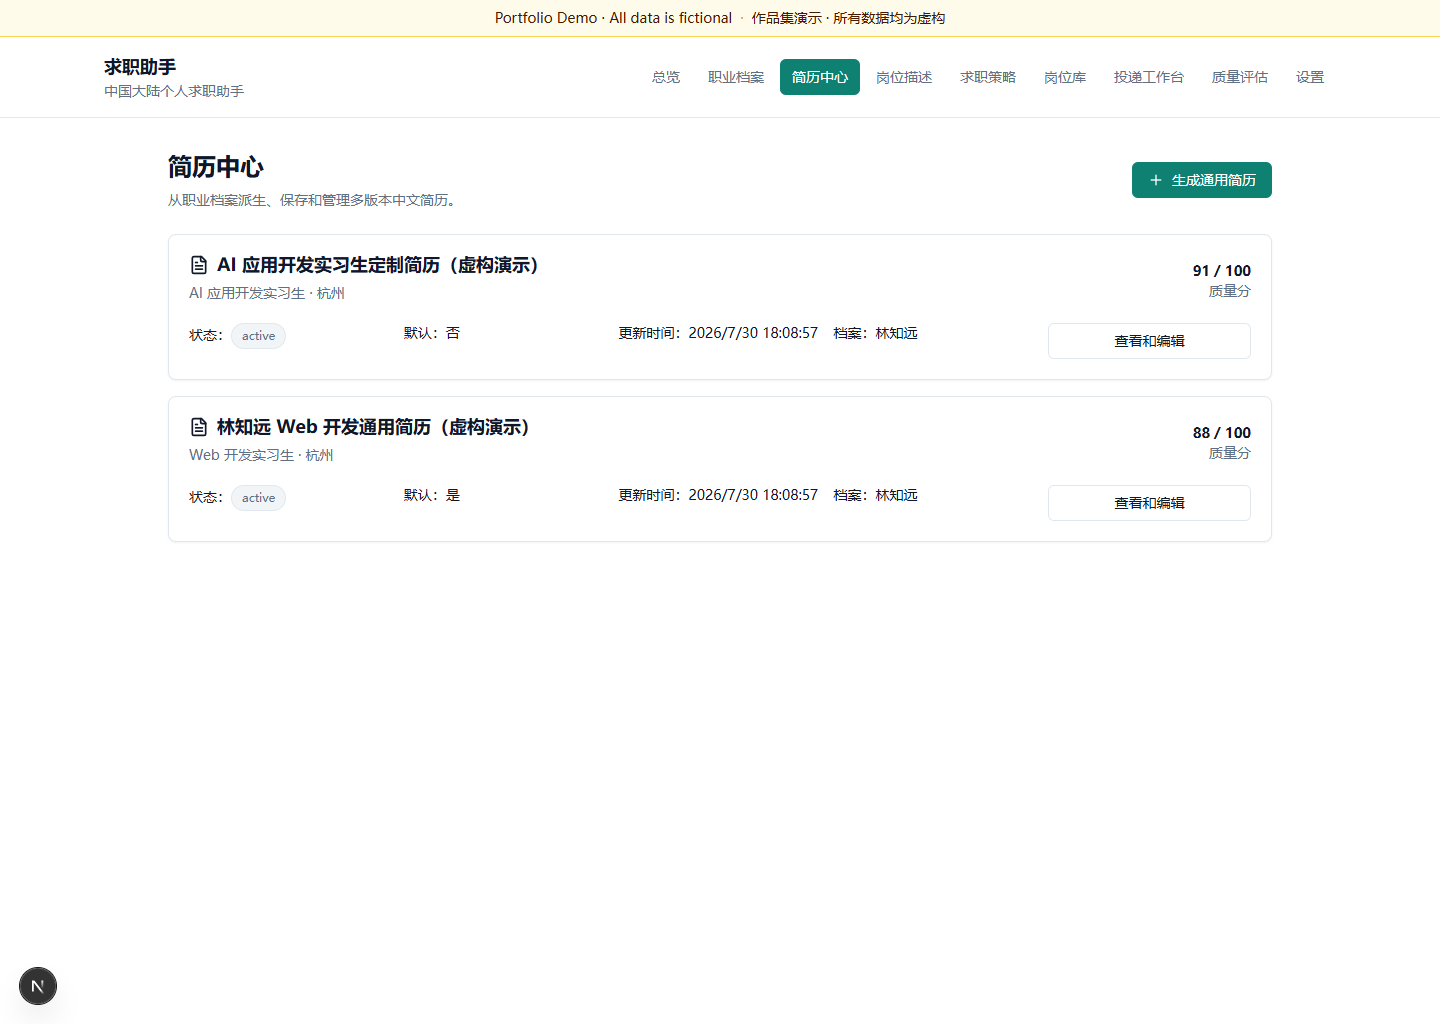
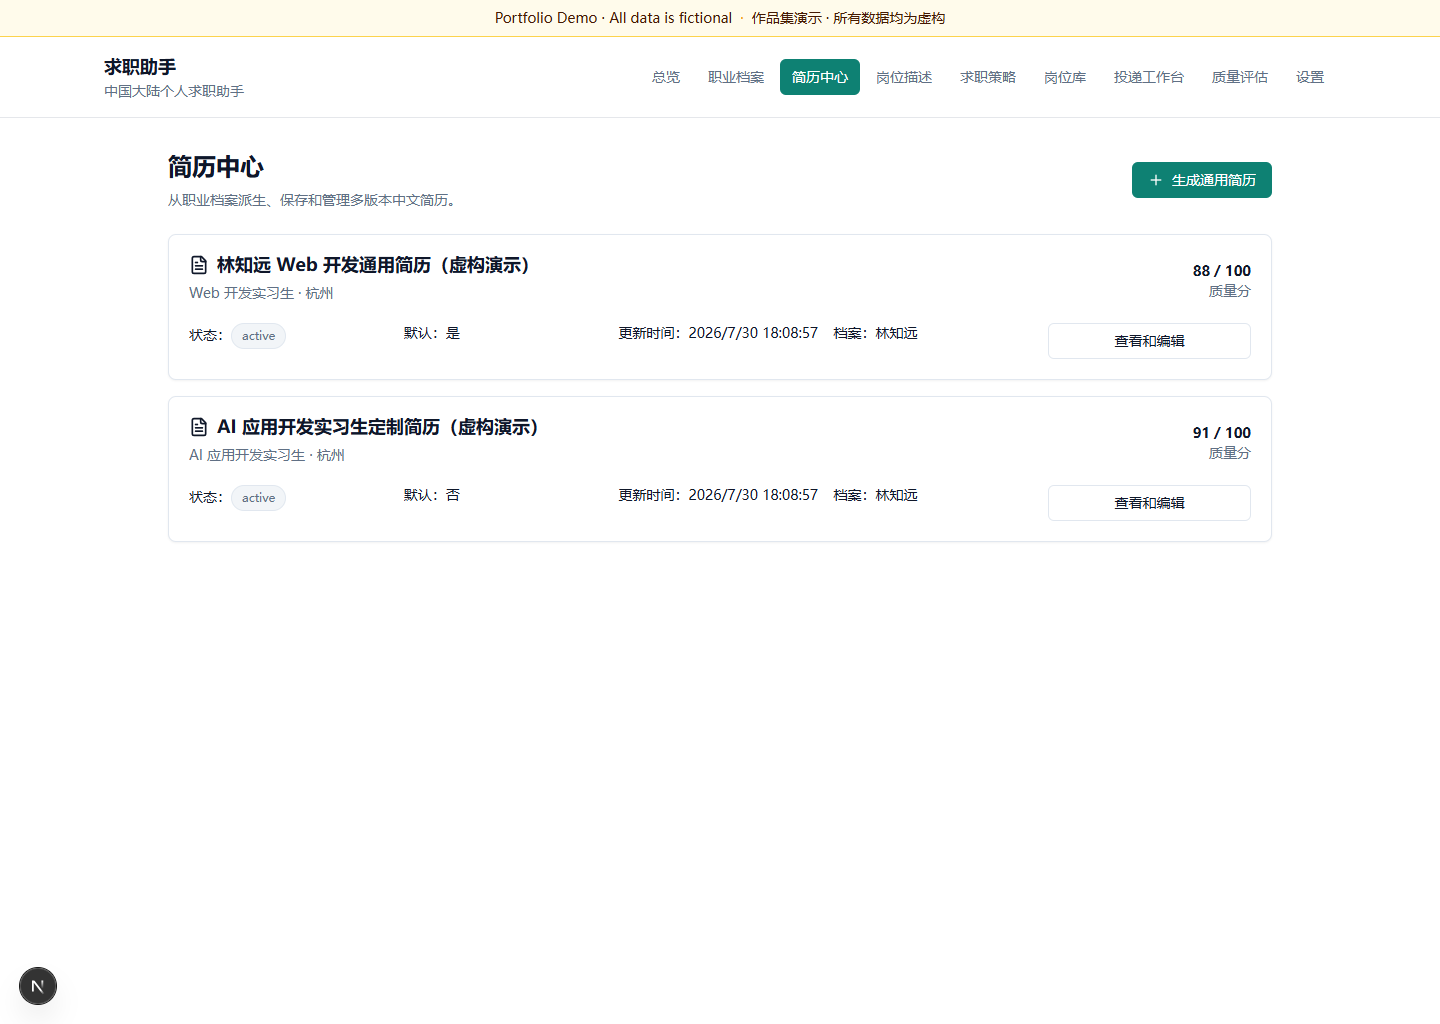
fix: make portfolio screenshots reproducible

Changed region(s): [[0.125, 0.4062, 0.375, 0.4688], [0.125, 0.25, 0.375, 0.3125]]

diff --git a/scripts/portfolio-seed.ts b/scripts/portfolio-seed.ts
@@ -1,6 +1,7 @@
 import { PrismaClient } from "@prisma/client";
 import {
   PORTFOLIO_DEMO_MARKER,
+  PORTFOLIO_DEMO_TIMESTAMP,
   buildPortfolioCompiledResume,
   portfolioBaseResumeMarkdown,
   portfolioJDAnalysis,
@@ -9,6 +10,7 @@ import {
 import { assertPortfolioDatabaseUrl } from "./portfolio-env";
 
 const prisma = new PrismaClient();
+const portfolioDemoTimestamp = new Date(PORTFOLIO_DEMO_TIMESTAMP);
 const ids = {
   user: "portfolio-demo-user-v1",
   profile: "portfolio-demo-profile-v1",
@@ -145,6 +147,8 @@ async function seed() {
       qualityWarnings: [],
       generationNotes: ["Demo Data / 虚构演示数据"],
       isDefault: true,
+      createdAt: portfolioDemoTimestamp,
+      updatedAt: portfolioDemoTimestamp,
       sections: {
         create: [
           { type: "education", title: "教育经历", contentMarkdown: "东海理工大学（虚构） · 软件工程 · 本科", order: 0 },
@@ -227,6 +231,8 @@ async function seed() {
         "Demo Data / 虚构演示数据",
       ],
       isDefault: false,
+      createdAt: portfolioDemoTimestamp,
+      updatedAt: portfolioDemoTimestamp,
       sections: {
         create: compiled.publicResult.sections.map((section) => ({
           type: section.type as never,
@@ -481,6 +487,7 @@ async function seed() {
         status: "success",
         fallbackUsed: false,
         metadata: json(log.metadata),
+        createdAt: portfolioDemoTimestamp,
       },
     });
   }

diff --git a/scripts/portfolio-verify.ts b/scripts/portfolio-verify.ts
@@ -1,6 +1,7 @@
 import { PrismaClient } from "@prisma/client";
 import {
   PORTFOLIO_DEMO_MARKER,
+  PORTFOLIO_DEMO_TIMESTAMP,
   buildPortfolioCompiledResume,
   portfolioProfileFixture,
 } from "./portfolio-fixtures";
@@ -72,6 +73,18 @@ async function verify() {
   }
   if (persisted.contentMarkdown !== compiled.publicResult.contentMarkdown) {
     throw new Error("Persisted tailored resume does not match compiler output.");
+  }
+  if (
+    profile.resumes.some(
+      (resume) =>
+        resume.createdAt.toISOString() !== PORTFOLIO_DEMO_TIMESTAMP ||
+        resume.updatedAt.toISOString() !== PORTFOLIO_DEMO_TIMESTAMP,
+    ) ||
+    logs.some(
+      (log) => log.createdAt.toISOString() !== PORTFOLIO_DEMO_TIMESTAMP,
+    )
+  ) {
+    throw new Error("Portfolio screenshot timestamps are not deterministic.");
   }
   if (
     logs.some((log) => {

diff --git a/tests/portfolio-fixtures.test.ts b/tests/portfolio-fixtures.test.ts
@@ -1,6 +1,7 @@
 import { describe, expect, it } from "vitest";
 import {
   PORTFOLIO_DEMO_MARKER,
+  PORTFOLIO_DEMO_TIMESTAMP,
   buildPortfolioCompiledResume,
   portfolioBaseResumeMarkdown,
   portfolioJDAnalysis,
@@ -14,6 +15,10 @@ describe("portfolio deterministic fixtures", () => {
 
   it("uses a fixed demo marker", () => {
     expect(PORTFOLIO_DEMO_MARKER).toBe("portfolio-demo-v1");
+  });
+
+  it("uses a fixed timestamp for reproducible screenshots", () => {
+    expect(PORTFOLIO_DEMO_TIMESTAMP).toBe("2026-07-30T10:08:57.000Z");
   });
 
   it("labels the base resume as fictional demo data", () => {

diff --git a/scripts/portfolio-fixtures.ts b/scripts/portfolio-fixtures.ts
@@ -25,6 +25,7 @@ import {
 import { tailoredResumeResultSchema } from "@/schemas/jd";
 
 export const PORTFOLIO_DEMO_MARKER = "portfolio-demo-v1";
+export const PORTFOLIO_DEMO_TIMESTAMP = "2026-07-30T10:08:57.000Z";
 
 export const portfolioProfileFixture: ResumeProfile = {
   id: "portfolio-demo-profile-v1",

diff --git a/README.md b/README.md
@@ -87,7 +87,7 @@ Factuality violations: 0
 
 ## 工程质量
 
-- 59 个测试文件、559 项自动化测试
+- 59 个测试文件、560 项自动化测试
 - Linux 与 Windows GitHub Actions
 - Prisma migrations：9
 - TypeScript、ESLint、Prisma validate、Production Build 全部门禁
